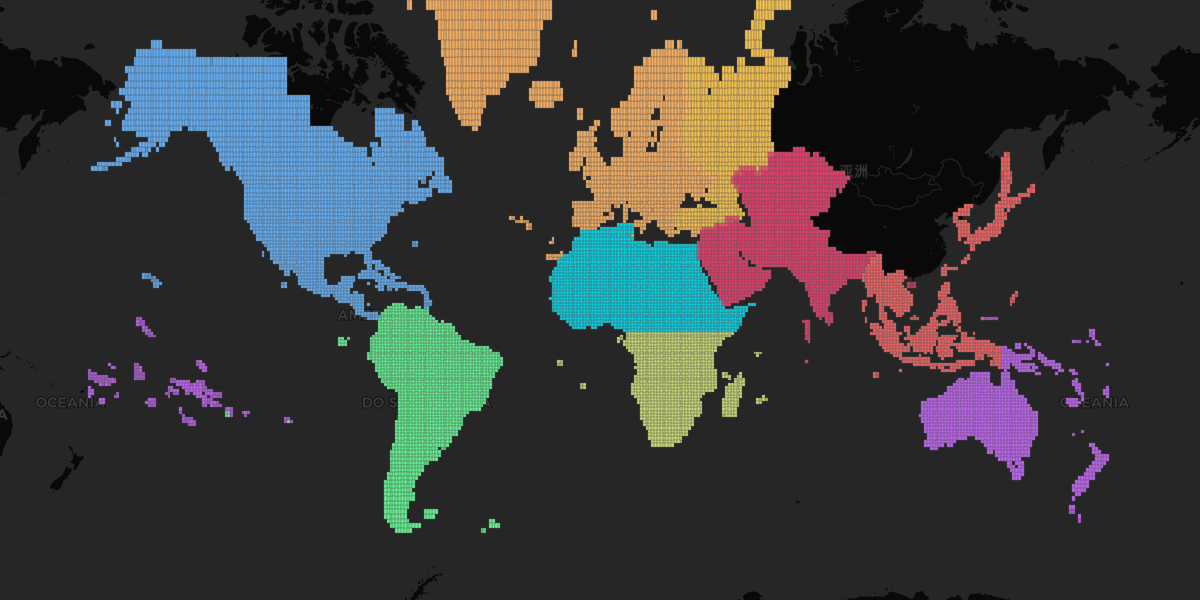
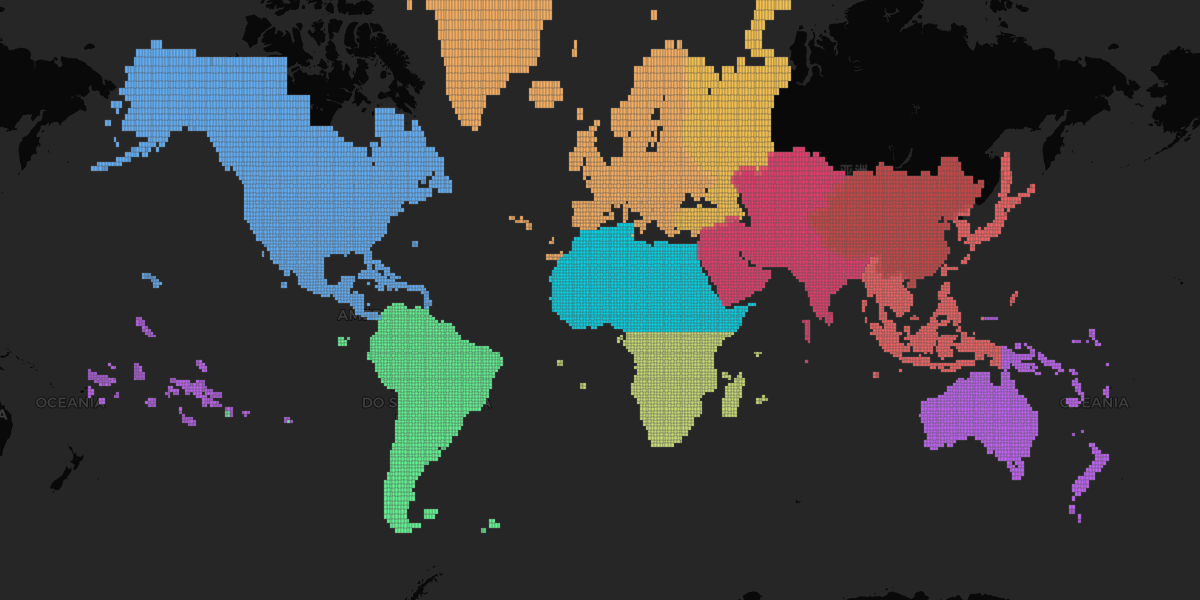
Add AS1 (Asia - Part 1) coverage and metadata
- AS1 region: China, Mongolia, Hong Kong, Macau
- Coverage map regenerated to include AS1 in firebrick
- README: Available Regions table + Coverage Details section for AS1

(region_metadata.json already had AS1 pre-registered from the AS2
release commit.)

Changed region(s): [[0.6783, 0.24, 0.8325, 0.48]]

diff --git a/README.md b/README.md
@@ -6,7 +6,7 @@ This repository hosts regional scenery packages for [XEarthLayer](https://github
 
 ![Tile Coverage Map](coverage.png)
 
-*NA tiles in blue, EU tiles in orange, EU2 tiles in tangerine, SA tiles in green, OC tiles in purple, AS2 tiles in crimson, AS3 tiles in red, AF1 tiles in cyan, AF2 tiles in yellowish-green. [View interactive map](coverage.geojson) for exact tile boundaries.*
+*NA tiles in blue, EU tiles in orange, EU2 tiles in tangerine, SA tiles in green, OC tiles in purple, AS1 tiles in firebrick, AS2 tiles in crimson, AS3 tiles in red, AF1 tiles in cyan, AF2 tiles in yellowish-green. [View interactive map](coverage.geojson) for exact tile boundaries.*
 
 ## Available Regions
 
@@ -14,6 +14,7 @@ This repository hosts regional scenery packages for [XEarthLayer](https://github
 |--------|------|---------|-------|------------|--------------|
 | Africa - Part 1 | AF1 | 0.1.0 | 1,718 | 10.5 GB | 722.6 MB |
 | Africa - Part 2 | AF2 | 0.1.0 | 1,058 | 7.9 GB | 541 MB |
+| Asia - Part 1 | AS1 | 0.1.0 | 1,264 | 21.3 GB | 728 MB |
 | Asia - Part 2 | AS2 | 0.1.0 | 1,615 | 17.3 GB | 1.3 GB |
 | Asia - Part 3 | AS3 | 0.1.0 | 901 | 13.3 GB | 1.3 GB |
 | Europe | EU | 0.1.1 | 1,995 | 29.8 GB | 2.1 GB |
@@ -112,6 +113,15 @@ Initial release covering:
 - **Islands** - Madagascar, Mauritius, Seychelles, Comoros, Réunion
 
 Geographic extent: -35° to +05° latitude, +08° to +58° longitude
+
+### Asia - Part 1 (AS1) v0.1.0
+
+Initial release covering:
+- **China** - Broad coverage of mainland China, including Xinjiang, Tibet, Inner Mongolia, and Hainan
+- **Mongolia** - Full country coverage
+- **Hong Kong** and **Macau** - Special Administrative Regions
+
+Geographic extent: +18° to +53° latitude, +073° to +134° longitude
 
 ### Asia - Part 2 (AS2) v0.1.0
 